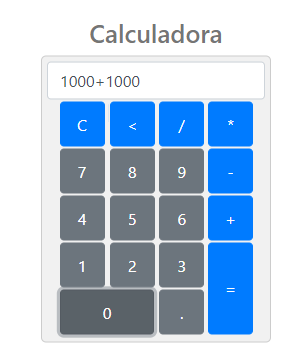
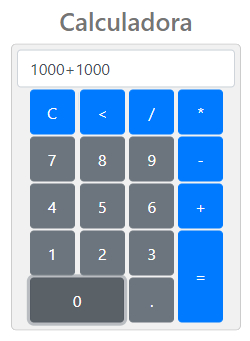
ajustando a imagem

Changed region(s): [[0.028, 0.0293, 0.98, 0.9677], [0.392, 0.5865, 0.448, 0.6452], [0.392, 0.7038, 0.448, 0.7625]]

diff --git a/README.md b/README.md
@@ -1,3 +1,3 @@
 "Este projeto está licenciado sob os termos da licença MIT."
 
-<img src="calculadora.jpg" alt="calculadora"/>
+<img src="calculadora.png" alt="calculadora"/>
